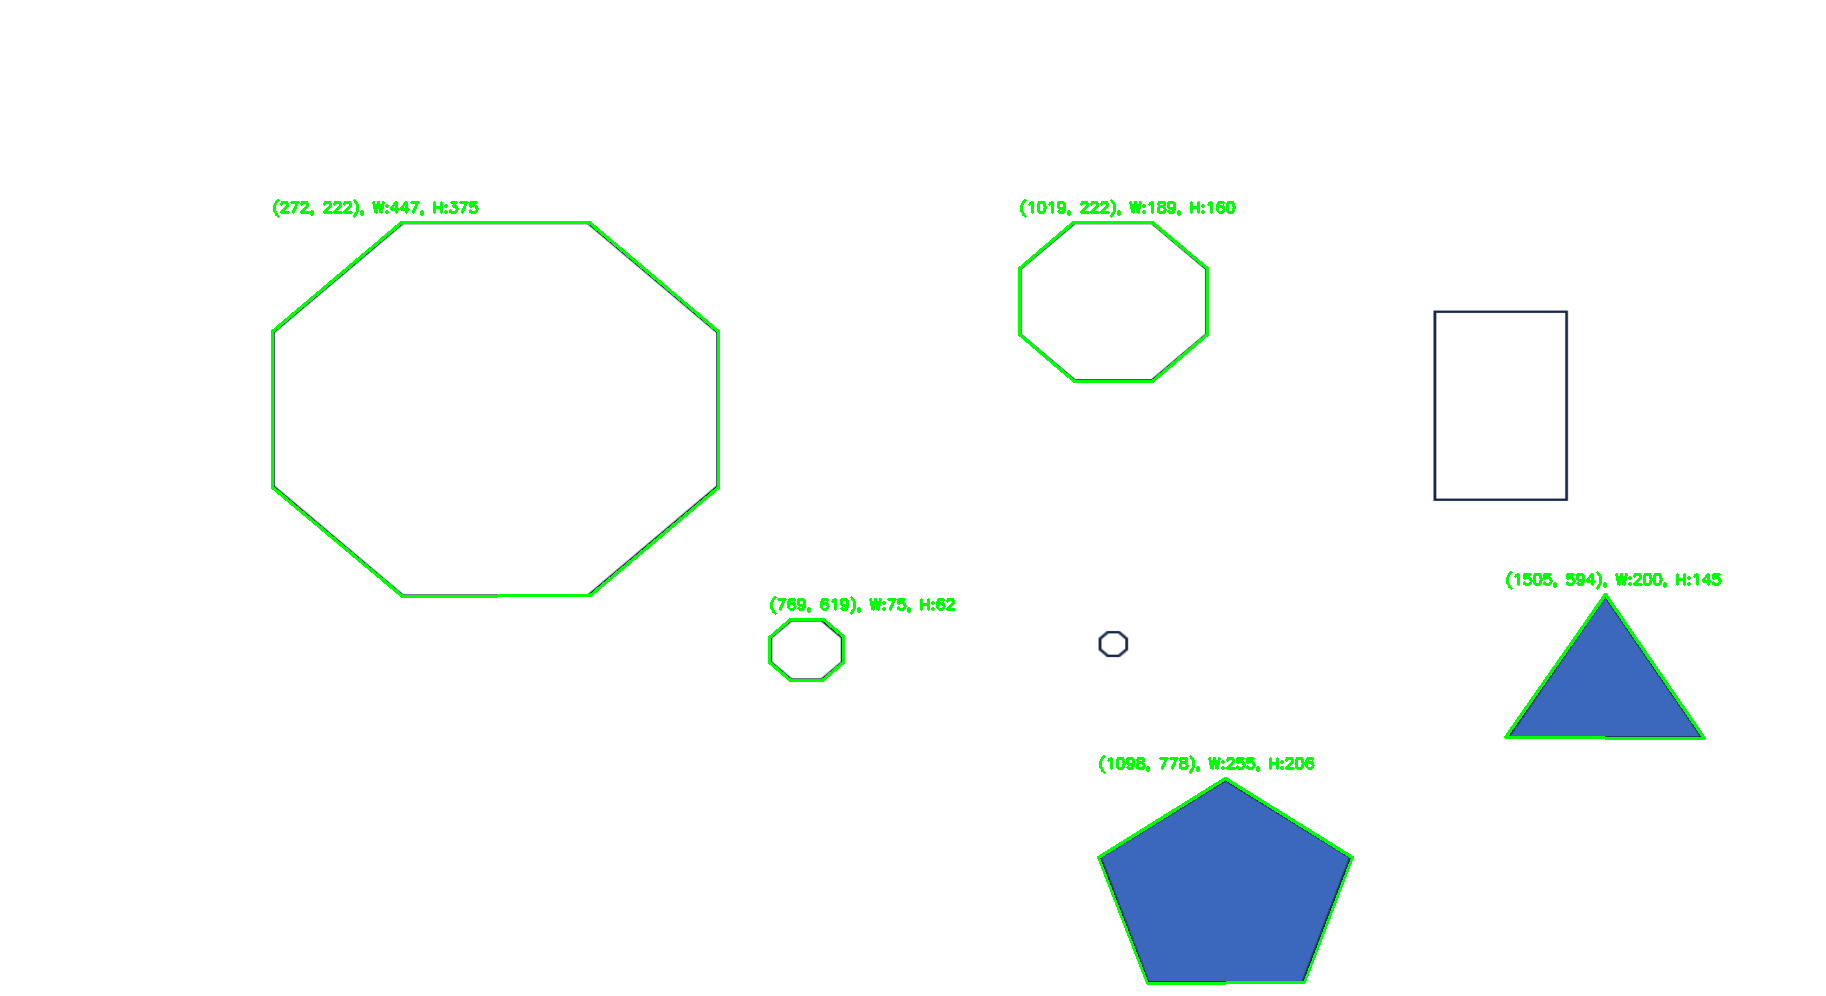
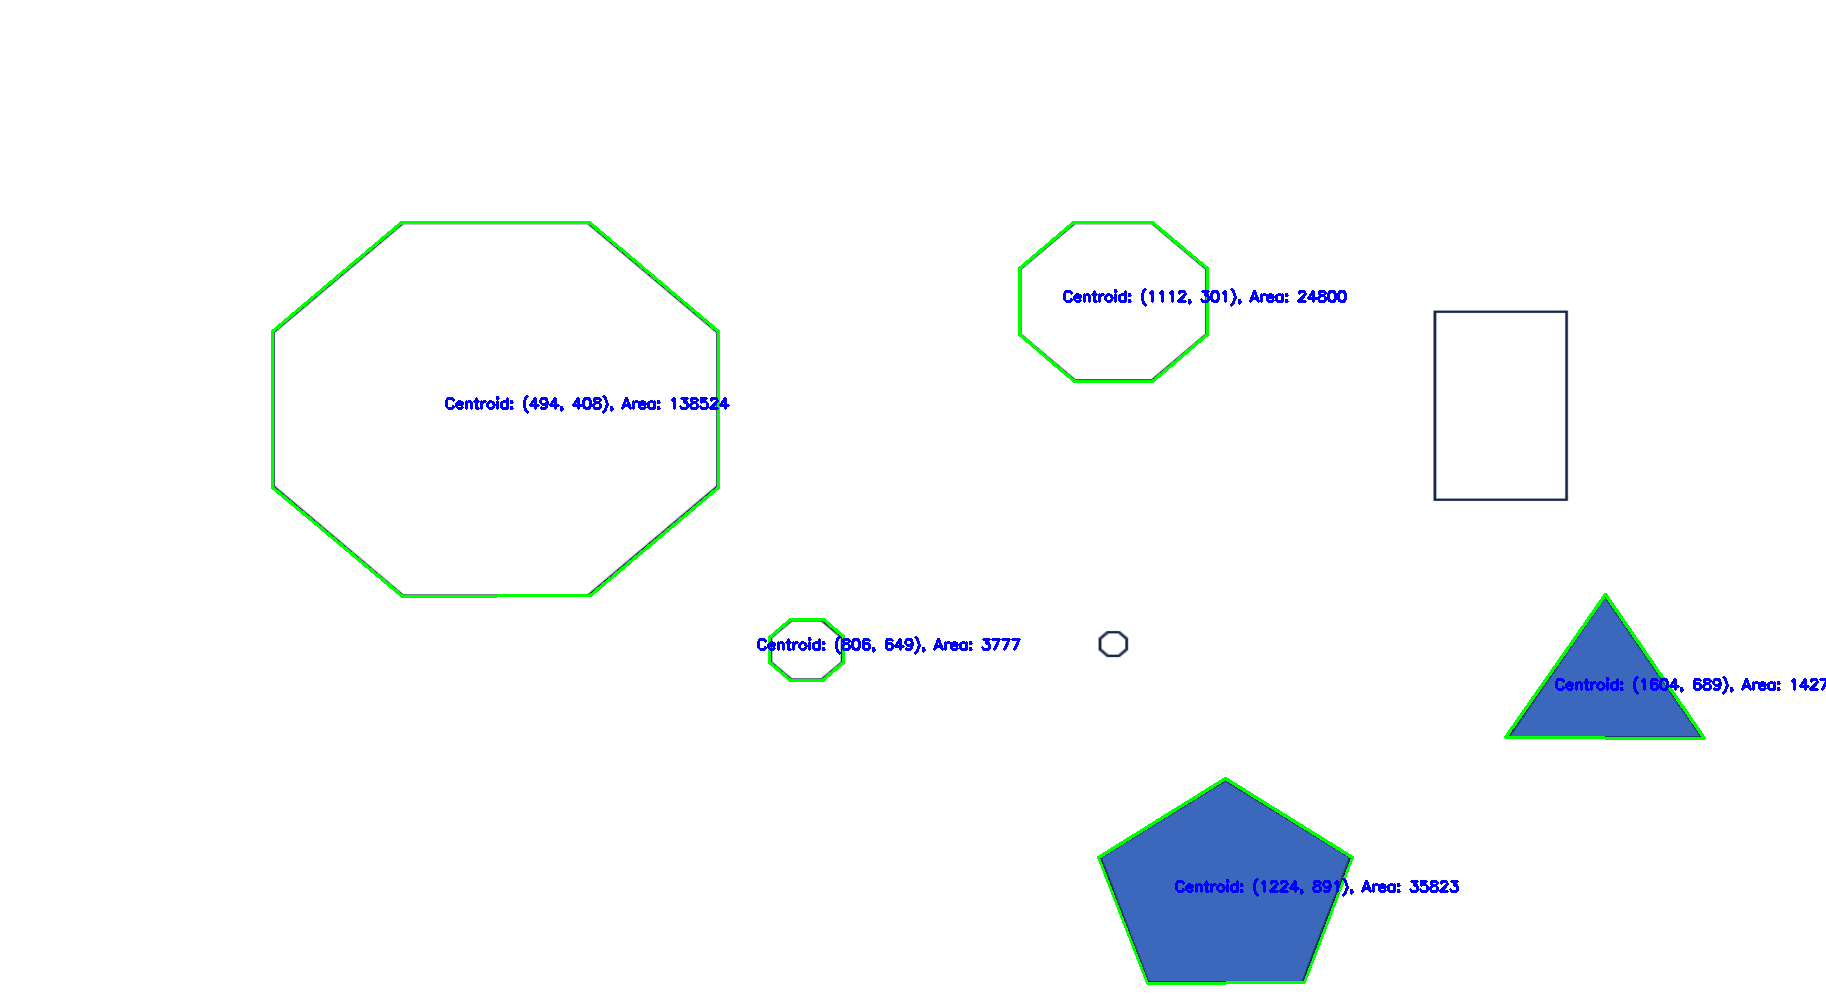
adds centroid and area to template.json file

diff --git a/prepare_template.py b/prepare_template.py
@@ -189,21 +189,32 @@ def detect_checkboxes(image, output_image_path, template_path, min_area, max_are
         area = cv2.contourArea(approx)
         if len(approx) in sides and min_area < area < max_area:  # Check if sides count is in the list
             cv2.drawContours(image, [approx], -1, (0, 255, 0), 2)
+            
+            # Calculate the centroid of the contour
+            M = cv2.moments(contour)
+            if M["m00"] != 0:
+                cX = int(M["m10"] / M["m00"])
+                cY = int(M["m01"] / M["m00"])
+                bbox_text = f"Centroid: ({cX}, {cY}), Area: {int(area)}"
+                
+                # Annotate the centroid and area on the image
+                cv2.putText(image, bbox_text, (cX - 50, cY), cv2.FONT_HERSHEY_SIMPLEX, 0.5, (255, 0, 0), 2)
+            else:
+                # Handle the case where the contour is a line or a point with no area (to avoid division by zero)
+                pass
+
             # Convert contour to list of points
             contour_points = approx.squeeze().tolist()
-
-            # Calculate the bounding box for the checkbox for annotation purposes
-            x, y, w, h = cv2.boundingRect(approx)
-            bbox_text = f"({x}, {y}), W:{w}, H:{h}"
             
-            # Draw the bounding box coordinates on the image
-            cv2.putText(image, bbox_text, (x, y-10), cv2.FONT_HERSHEY_SIMPLEX, 0.5, (0, 255, 0), 2)
 
             # Ensure "label" comes before "contour" in the dictionary
             checkboxes.append({
                 "question": "Q_",  # Placeholder values
                 "subquestion": "a",
                 "question_type": "select_multiple",
+                "centroid_x":cX,
+                "centroid_y":cY,
+                "area":int(area),
                 "contour": contour_points  # Convert numpy array to list
             })
 
